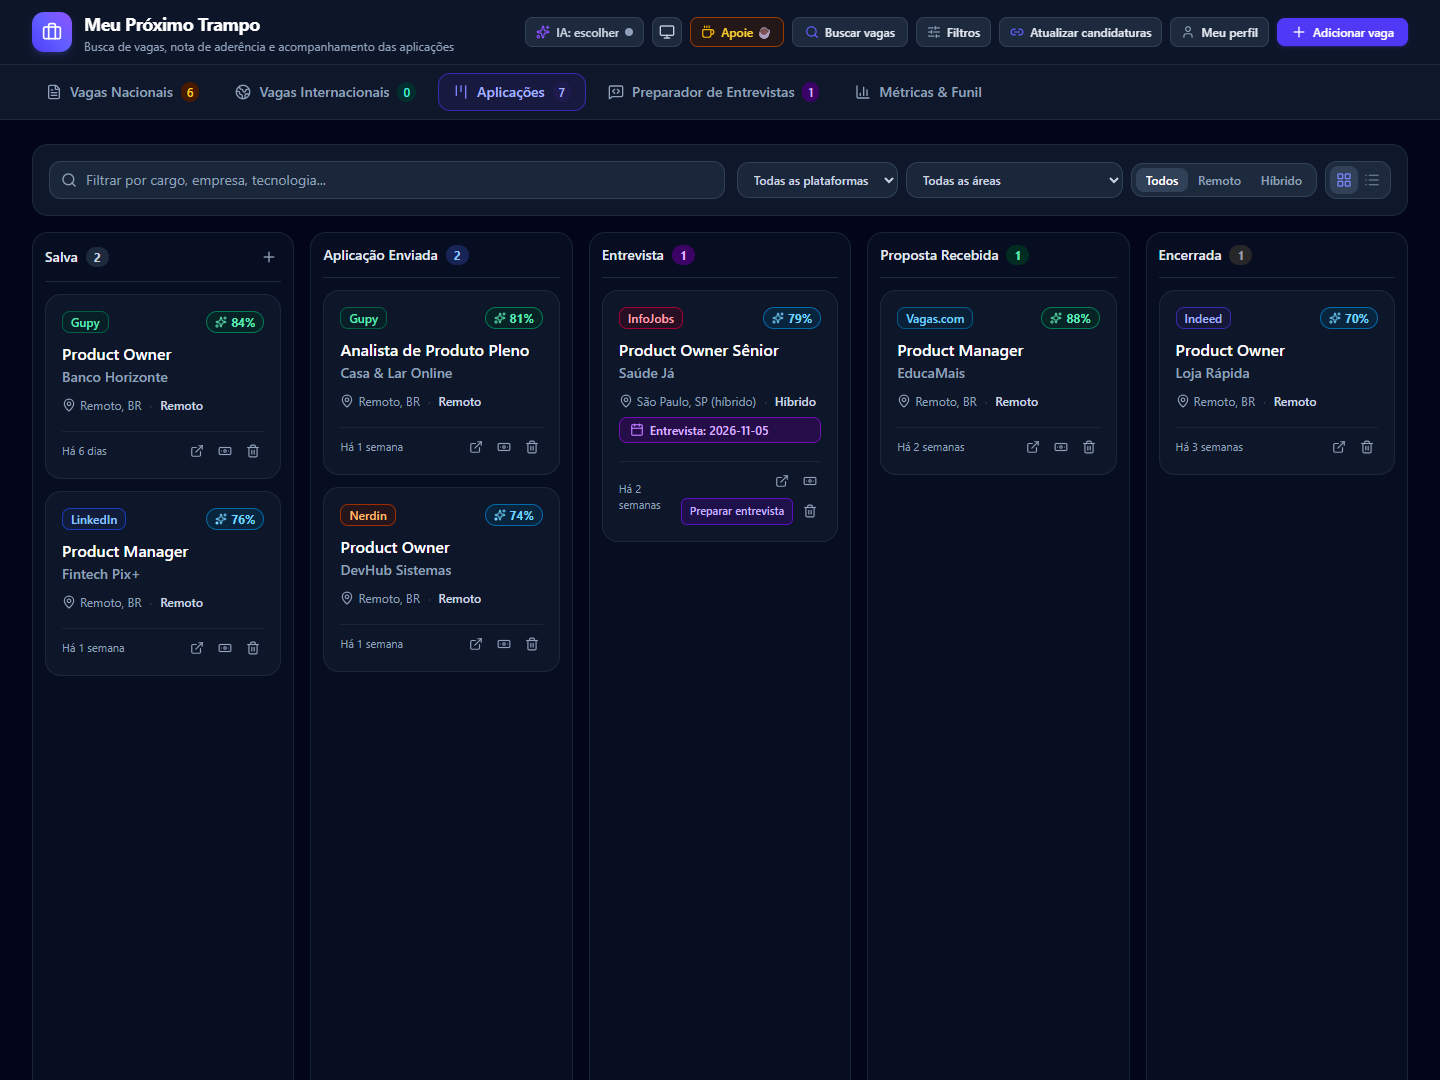
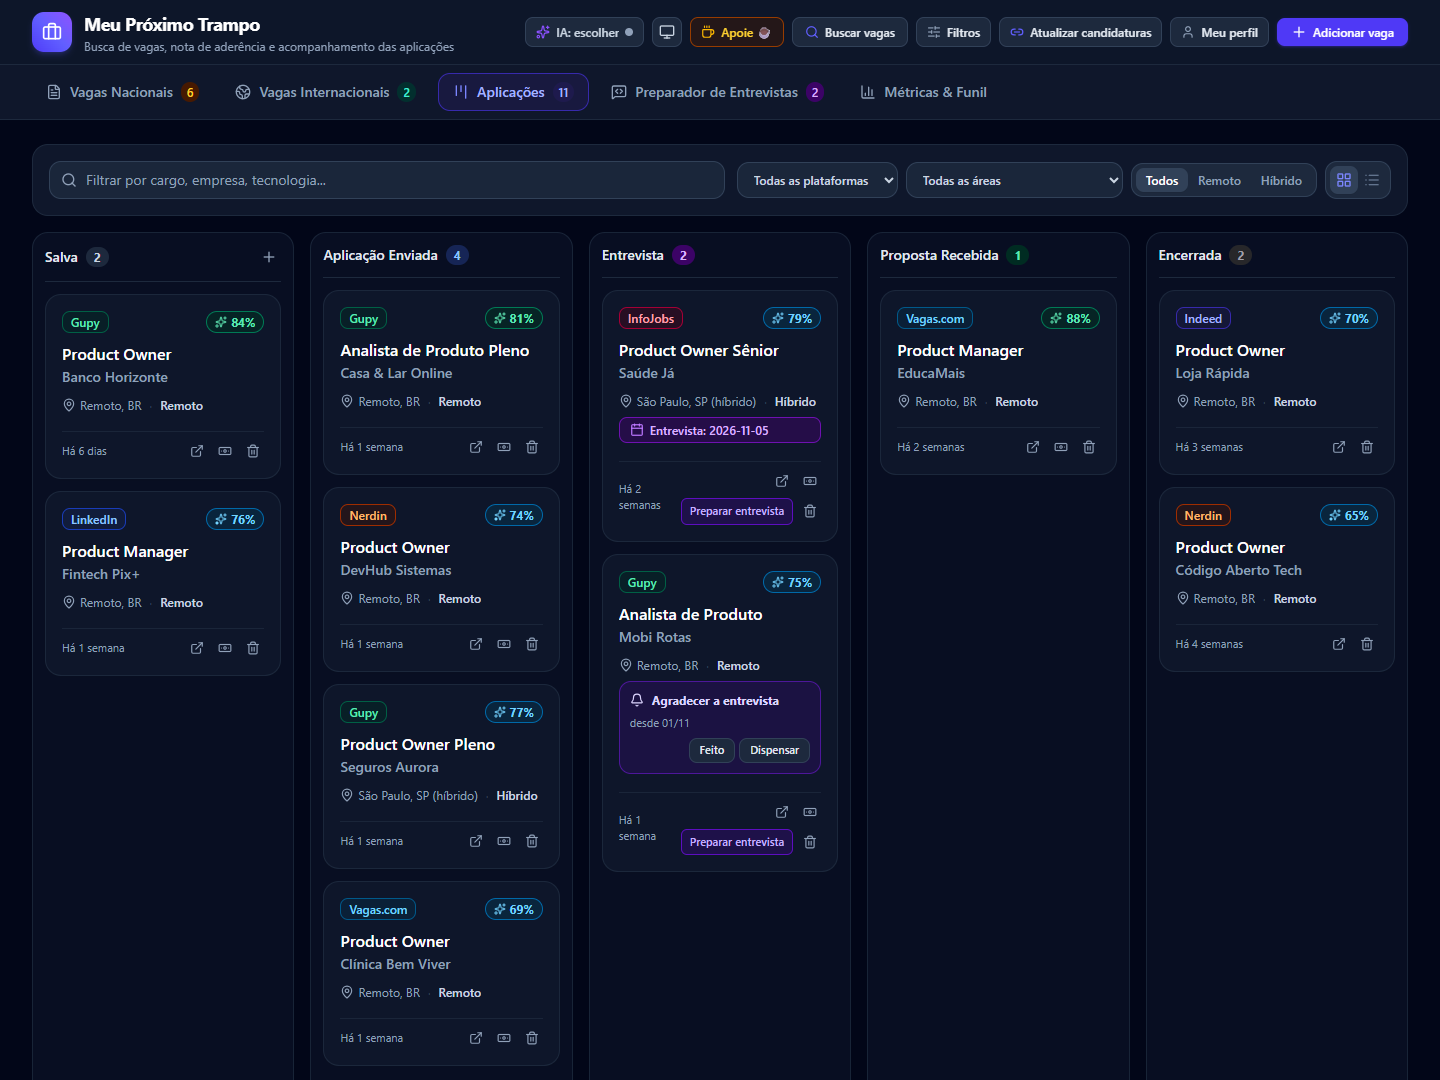
README: capturas refeitas e a de Métricas & Funil
As três telas (Vagas Nacionais, Aplicações e Métricas & Funil, a página inteira) saem do mesmo
banco de demonstração, só com vagas, empresas e perfil inventados, agora com os requisitos das
vagas, mais candidaturas e vagas internacionais.

diff --git a/README.md b/README.md
@@ -132,6 +132,8 @@ Tudo roda no seu computador: sem conta, sem login e sem servidor de terceiros.
 
 ![Aplicações](docs/quadro.png)
 
+![Métricas & Funil](docs/metricas.png)
+
 ## Precisa de IA?
 
 Não. A busca, as listas de vagas e Aplicações funcionam sem IA. A IA entra para avaliar as
